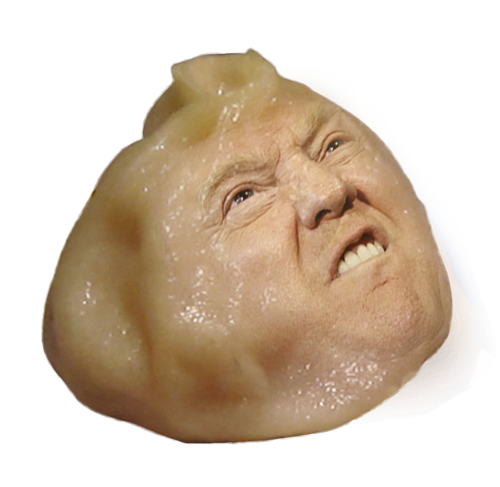
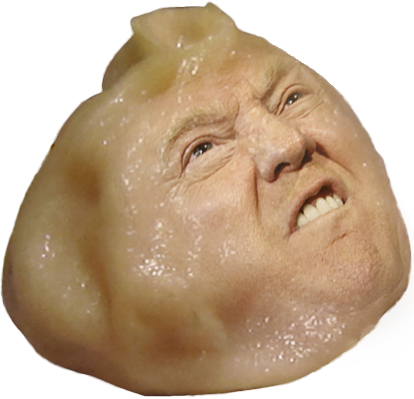
Cropped trumpling. Removed extraneous files

diff --git a/_site/css/screen.css b/_site/css/screen.css
@@ -1,1 +1,1 @@
-html,body,div,span,applet,object,iframe,h1,h2,h3,h4,h5,h6,p,blockquote,pre,a,abbr,acronym,address,big,cite,code,del,dfn,em,img,ins,kbd,q,s,samp,small,strike,strong,sub,sup,tt,var,b,u,i,center,dl,dt,dd,ol,ul,li,fieldset,form,label,legend,table,caption,tbody,tfoot,thead,tr,th,td,article,aside,canvas,details,embed,figure,figcaption,footer,header,hgroup,menu,nav,output,ruby,section,summary,time,mark,audio,video{margin:0;padding:0;border:0;font-size:100%;font:inherit;vertical-align:baseline}article,aside,details,figcaption,figure,footer,header,hgroup,menu,nav,section{display:block}body{line-height:1}ol,ul{list-style:none}blockquote,q{quotes:none}blockquote:before,blockquote:after,q:before,q:after{content:'';content:none}table{border-collapse:collapse;border-spacing:0}body{background:#fff;font-family:"HelveticaNeue-Bold","Helvetica Neue Bold","Helvetica Neue",Helvetica,Arial,"Lucida Grande",sans-serif;background:#e9eaf0}p{font-family:"HelveticaNeue-Regular","Helvetica Neue Regular","Helvetica Neue",Helvetica,Arial,"Lucida Grande",sans-serif;font-weight:500;margin-bottom:2rem}.wrapper{width:100%;min-width:1350px;margin:0 auto;position:relative}h1.title{font-size:7rem;letter-spacing:-.1rem;text-align:center;color:#ce7330;margin:1rem auto 0}.steamwrap{width:58rem;margin:0 auto;position:relative}.steamwrap .smoke{position:absolute;width:100%;height:550px;background:url("../img/smoke-texture.png") no-repeat;bottom:150px;margin-left:0px}.steamer{position:relative;margin:3rem auto 0;display:block;width:100%;left:-100rem}.no-js .steamer{left:0}.trumpling{position:absolute;z-index:5;width:14rem}.no-js .trumpling{top:0}.trumpling#uno{left:9rem;margin-top:16rem;z-index:10}.trumpling#dos{left:16rem;margin-top:7rem;z-index:8}.trumpling#tres{left:23rem;margin-top:19rem;z-index:10;width:15rem}.trumpling#cuatro{left:30rem;margin-top:6rem;z-index:8;width:13rem}.trumpling#cinco{left:37rem;margin-top:13rem;z-index:9;width:15rem}.chopsticks{position:absolute;right:0rem;top:20rem;z-index:-1}.fb-like,p{margin-top:2rem;margin-left:2rem}.ad{margin:2rem auto 0;width:768px}#addtrumpling{position:relative;z-index:10}
+html,body,div,span,applet,object,iframe,h1,h2,h3,h4,h5,h6,p,blockquote,pre,a,abbr,acronym,address,big,cite,code,del,dfn,em,img,ins,kbd,q,s,samp,small,strike,strong,sub,sup,tt,var,b,u,i,center,dl,dt,dd,ol,ul,li,fieldset,form,label,legend,table,caption,tbody,tfoot,thead,tr,th,td,article,aside,canvas,details,embed,figure,figcaption,footer,header,hgroup,menu,nav,output,ruby,section,summary,time,mark,audio,video{margin:0;padding:0;border:0;font-size:100%;font:inherit;vertical-align:baseline}article,aside,details,figcaption,figure,footer,header,hgroup,menu,nav,section{display:block}body{line-height:1}ol,ul{list-style:none}blockquote,q{quotes:none}blockquote:before,blockquote:after,q:before,q:after{content:'';content:none}table{border-collapse:collapse;border-spacing:0}body{background:#fff;font-family:"HelveticaNeue-Bold","Helvetica Neue Bold","Helvetica Neue",Helvetica,Arial,"Lucida Grande",sans-serif;background:#e9eaf0}p{font-family:"HelveticaNeue-Regular","Helvetica Neue Regular","Helvetica Neue",Helvetica,Arial,"Lucida Grande",sans-serif;font-weight:500;margin-bottom:2rem}.wrapper{width:100%;min-width:1350px;margin:0 auto;position:relative}h1.title{font-size:7rem;letter-spacing:-.1rem;text-align:center;color:#ce7330;margin:1rem auto 0}.steamwrap{width:58rem;margin:0 auto;position:relative}.steamwrap .smoke{position:absolute;width:100%;height:550px;background:url("../img/smoke-texture.png") no-repeat;bottom:150px;margin-left:0px}.steamer{position:relative;margin:3rem auto 0;display:block;width:100%;left:-100rem}.no-js .steamer{left:0}.trumpling{position:absolute;z-index:5;width:14rem;top:0}.trumpling#uno{left:9rem;margin-top:16rem;z-index:10}.trumpling#dos{left:16rem;margin-top:7rem;z-index:8}.trumpling#tres{left:23rem;margin-top:19rem;z-index:10;width:15rem}.trumpling#cuatro{left:30rem;margin-top:6rem;z-index:8;width:13rem}.trumpling#cinco{left:37rem;margin-top:13rem;z-index:9;width:15rem}.chopsticks{position:absolute;right:0rem;top:20rem;z-index:-1}.fb-like,p{margin-top:2rem;margin-left:2rem}.ad{margin:2rem auto 0;width:768px}#addtrumpling img{position:absolute;z-index:10;top:2rem;right:2rem;width:5rem}

diff --git a/_site/js/scripts.js b/_site/js/scripts.js
@@ -11,10 +11,17 @@ $( document ).ready(function() {
     setTimeout(introduceTrumplings, 1500);
 
     function introduceTrumplings() {
+    	var randomMargin = Math.floor(95 + (1-5-95)*Math.random()) + "%" ;
+		var randomWidth = Math.floor(15 + (1+10-15)*Math.random()) + "rem" ;
+		var randomRotation = Math.floor((-45) + (1+45-(-45))*Math.random()) + "deg" ;
+
 		$(".trumpling").box2d({'y-velocity':10});
 
 		$("#addtrumpling").click(function() {
-			$('<img class="trumpling" src="/img/trumpling.png" alt="trumpling" />').appendTo(".steamwrap").box2d({'y-velocity':10});
+			$('<img class="trumpling" src="/img/trumpling.png" alt="trumpling" />')
+			.appendTo(".steamwrap")
+			.css({ left : randomMargin , width : randomWidth , rotate: randomRotation})
+			.box2d({'y-velocity':10});
 		});
 	}
 	

diff --git a/js/scripts.js b/js/scripts.js
@@ -11,10 +11,17 @@ $( document ).ready(function() {
     setTimeout(introduceTrumplings, 1500);
 
     function introduceTrumplings() {
+    	var randomMargin = Math.floor(95 + (1-5-95)*Math.random()) + "%" ;
+		var randomWidth = Math.floor(15 + (1+10-15)*Math.random()) + "rem" ;
+		var randomRotation = Math.floor((-45) + (1+45-(-45))*Math.random()) + "deg" ;
+
 		$(".trumpling").box2d({'y-velocity':10});
 
 		$("#addtrumpling").click(function() {
-			$('<img class="trumpling" src="/img/trumpling.png" alt="trumpling" />').appendTo(".steamwrap").box2d({'y-velocity':10});
+			$('<img class="trumpling" src="/img/trumpling.png" alt="trumpling" />')
+			.appendTo(".steamwrap")
+			.css({ left : randomMargin , width : randomWidth , rotate: randomRotation})
+			.box2d({'y-velocity':10});
 		});
 	}
 	

diff --git a/_site/index.html b/_site/index.html
@@ -45,7 +45,7 @@
   </div>
   <img class="chopsticks" src="/img/chopsticks_perspective.png" alt="chopsticks" />
   <p>Not in the mood for Trumplings? Try <a target="_blank" href="http://mittballs.co">Mittballs</a></p>
-  <p><a id="addtrumpling" href="#">Add a trumpling</a></p>
+  <a id="addtrumpling" href="#"><img src="/img/button_more.png" alt="Add a trumpling" /></a>
 <script src="/js/scripts.js"></script>
 <!-- <script src="/js/steam.js"></script> -->
 <div id="fb-root"></div>

diff --git a/_layouts/default.html b/_layouts/default.html
@@ -12,6 +12,6 @@
   </div>
   <img class="chopsticks" src="{{ site.baseurl }}/img/chopsticks_perspective.png" alt="chopsticks" />
   <p>Not in the mood for Trumplings? Try <a target="_blank" href="http://mittballs.co">Mittballs</a></p>
-  <p><a id="addtrumpling" href="#">Add a trumpling</a></p>
+  <a id="addtrumpling" href="#"><img src="{{ site.baseurl }}/img/button_more.png" alt="Add a trumpling" /></a>
 {% include js.html %}
 {% include footer.html %}

diff --git a/css/screen.scss b/css/screen.scss
@@ -70,15 +70,7 @@ h1.title {
 	position: absolute;
 	z-index: 5;
 	width: 14rem;
-
-
-	// this is for the animation
-	// top: -62rem;
-
-	// if no js, then keep the trumplings where they belong
-	.no-js & {
-		top: 0;
-	}
+	top: 0;
 	
 	&#uno {
 		left: 9rem;
@@ -132,8 +124,11 @@ h1.title {
 	width: 768px;
 }
 
-#addtrumpling {
-	position: relative;
+#addtrumpling img {
+	position: absolute;
 	z-index: 10;
+	top: 2rem;
+	right: 2rem;
+	width: 5rem;
 }
 
